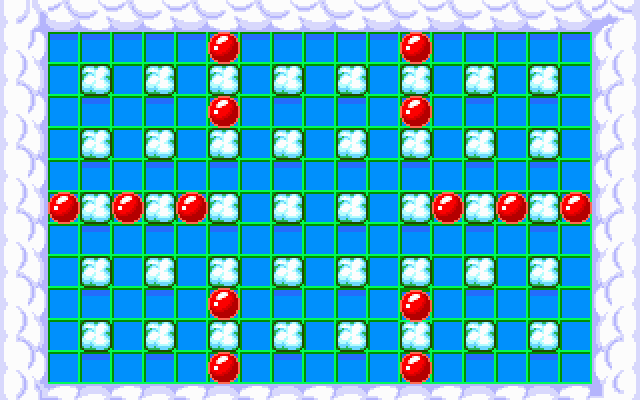
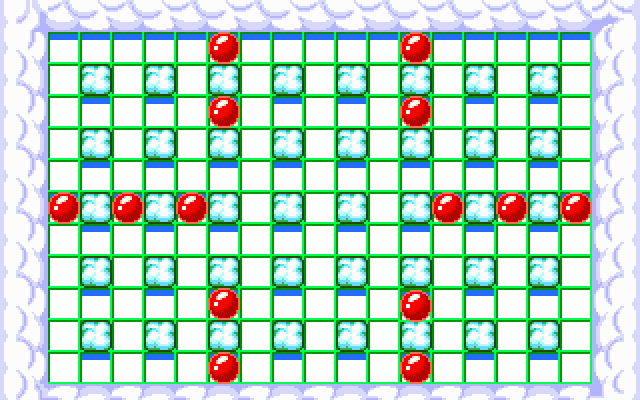
Add backgroundd

diff --git a/js/main.js b/js/main.js
@@ -872,6 +872,15 @@ function drawAll(interpolationPercentage) {
         } else {
             canvas.style.opacity = 1;
         }
+
+        if (mapIndex == 4) {
+            for (let y = 0; y < 5; y++) {
+                for (let x = 0; x < 8; x++) {
+                    assets.sky.draw(ctx,
+                        48 * 8 - Math.floor(map.time / 2 + x * 48 + y * 24) % (48 * 8) - 48, y * 44);
+                }
+            }
+        }
         bg.images[Math.floor(bg.time) % bg.images.length].draw(ctx, 0, 0);
         bg.time += 1 / 30;
 

diff --git a/js/assets.js b/js/assets.js
@@ -221,7 +221,8 @@ function loadAssets(scale = 2) {
             loadImage(document.getElementById("VIC2"), 0, 0, 320, 200),
             loadImage(document.getElementById("VIC3"), 0, 0, 320, 200),
             loadImage(document.getElementById("VIC4"), 0, 0, 320, 200),
-        ]
+        ],
+        sky: loadImage(imgSprite2, 64, 16, 48, 44)
 
         // igloo penguin
         //    for(let i = 0; i < 5; i++) {
